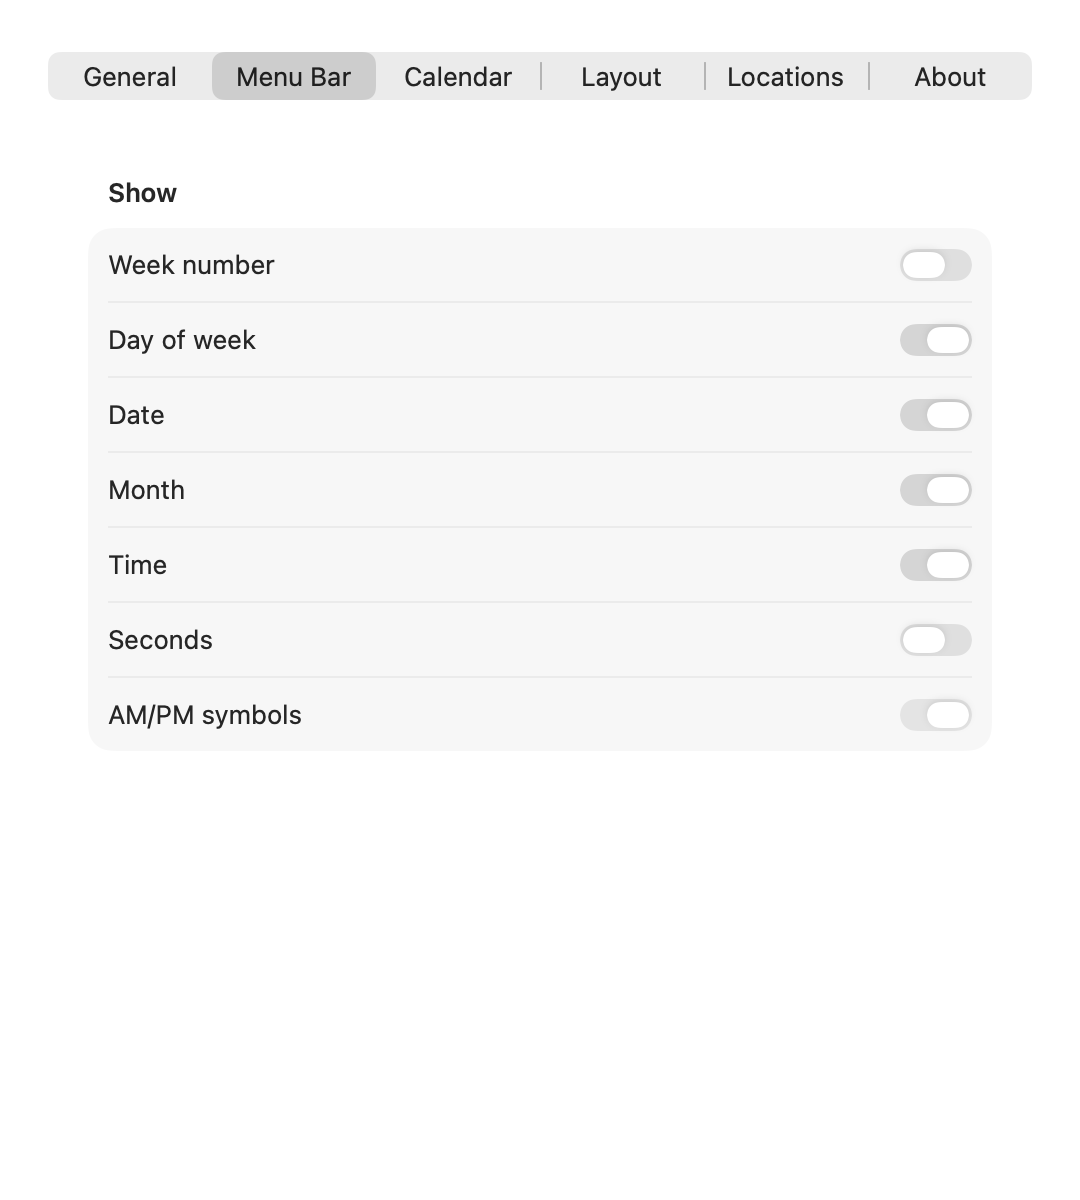
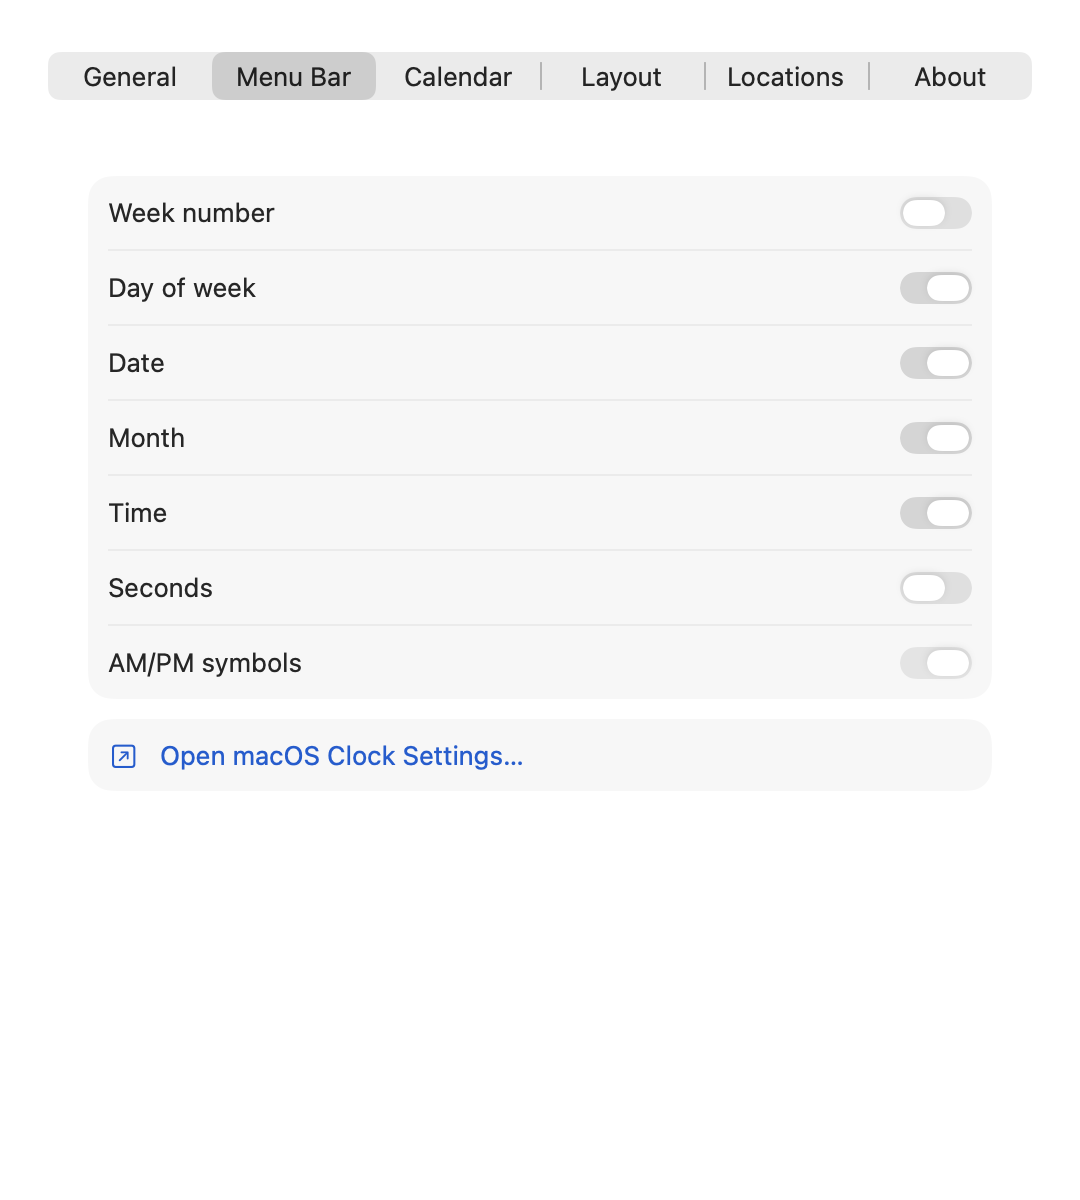
Link menu bar preferences to macOS clock settings

diff --git a/Horologium/Views/SettingsView.swift b/Horologium/Views/SettingsView.swift
@@ -117,7 +117,7 @@ struct SettingsView: View {
 
     private var menuBar: some View {
         Form {
-            Section("Show") {
+            Section {
                 Toggle("Week number", isOn: $store.preferences.showWeekNumber)
                 Toggle("Day of week", isOn: $store.preferences.showDayOfWeek)
                 Toggle("Date", isOn: $store.preferences.showDate)
@@ -126,6 +126,11 @@ struct SettingsView: View {
                 Toggle("Seconds", isOn: $store.preferences.showSeconds).disabled(!store.preferences.showTime)
                 Toggle("AM/PM symbols", isOn: $store.preferences.showAMPM)
                     .disabled(!store.preferences.showTime || store.preferences.clockFormat == .twentyFourHour)
+            }
+            Section {
+                Link(destination: URL(string: "x-apple.systempreferences:com.apple.ControlCenter-Settings.extension?Clock")!) {
+                    Label("Open macOS Clock Settings…", systemImage: "arrow.up.forward.square")
+                }
             }
         }.formStyle(.grouped).scrollContentBackground(.hidden).toggleStyle(.switch)
     }

diff --git a/README.md b/README.md
@@ -14,6 +14,7 @@ Click the date and time in the menu bar to browse a month, check your saved loca
 - Local dates and time differences for every location, including fractional-hour offsets.
 - System, 12-hour, and 24-hour formats; system or custom week start; optional start at login.
 - Independent menu bar toggles for week number, weekday, date, month, time, seconds, and AM/PM.
+- A shortcut to macOS clock settings below the format toggles. macOS keeps its native clock visible; Horologium does not modify system clock preferences.
 - Reorder Calendar, Time Travel, and Time Zones in Settings → Layout.
 - System-following appearance by default, with Light/Dark overrides and VoiceOver labels.
 - Local preferences only. No accounts, calendar permissions, event notifications, analytics, or runtime network requests.
@@ -68,7 +69,7 @@ Create a local installer for development:
 ./scripts/package.sh --local
 ```
 
-Output: `build/packages/Horologium-1.0.2-build3-local.pkg`. This contains an ad hoc signed app; the package is **not Developer ID signed or notarized** and is for local development.
+Output: `build/packages/Horologium-1.0.3-build4-local.pkg`. This contains an ad hoc signed app; the package is **not Developer ID signed or notarized** and is for local development.
 
 Once Ardens' Apple Developer Program membership is active:
 
@@ -89,7 +90,7 @@ Quit an existing Horologium process before installing an updated build, then reo
 
 ## Versioning
 
-The current version is **1.0.2 (build 3)**. `Version.json` is the source of truth; the Xcode project generator reads it, About reads the built app metadata, and installer filenames include both version and build.
+The current version is **1.0.3 (build 4)**. `Version.json` is the source of truth; the Xcode project generator reads it, About reads the built app metadata, and installer filenames include both version and build.
 
 Bump the patch version and build once per delivered change:
 

diff --git a/CHANGELOG.md b/CHANGELOG.md
@@ -1,5 +1,10 @@
 # Changelog
 
+## 1.0.3 — Build 4
+
+- Removed the Menu Bar formatting group's heading.
+- Added a link below the format toggles to the native macOS clock settings.
+
 ## 1.0.2 — Build 3
 
 - Stabilized settings tabs with fixed, equal native segment widths.
